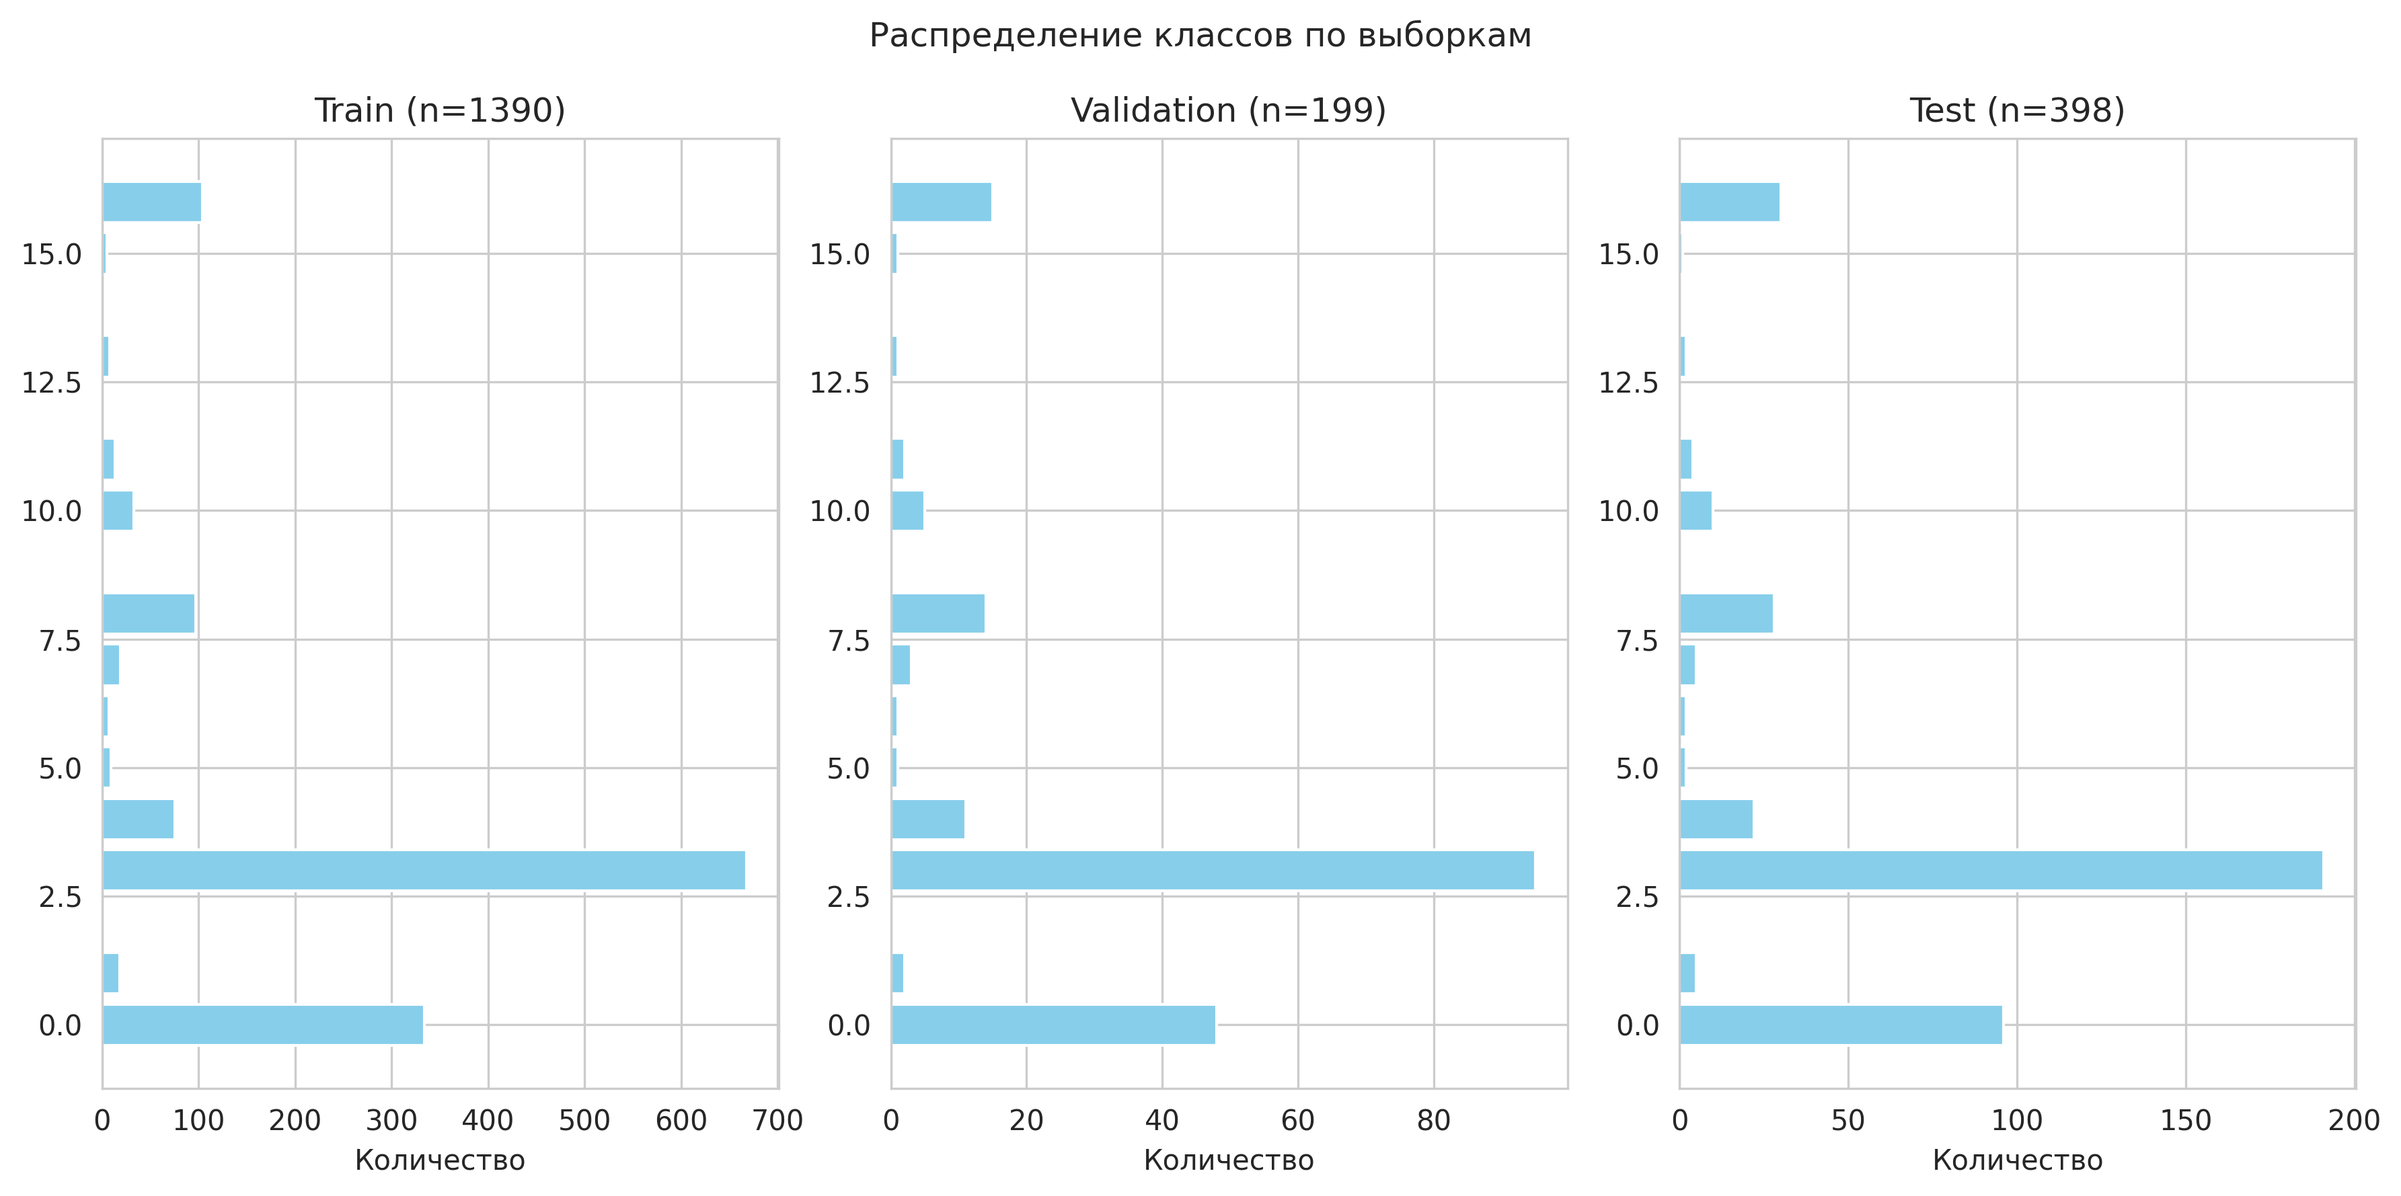
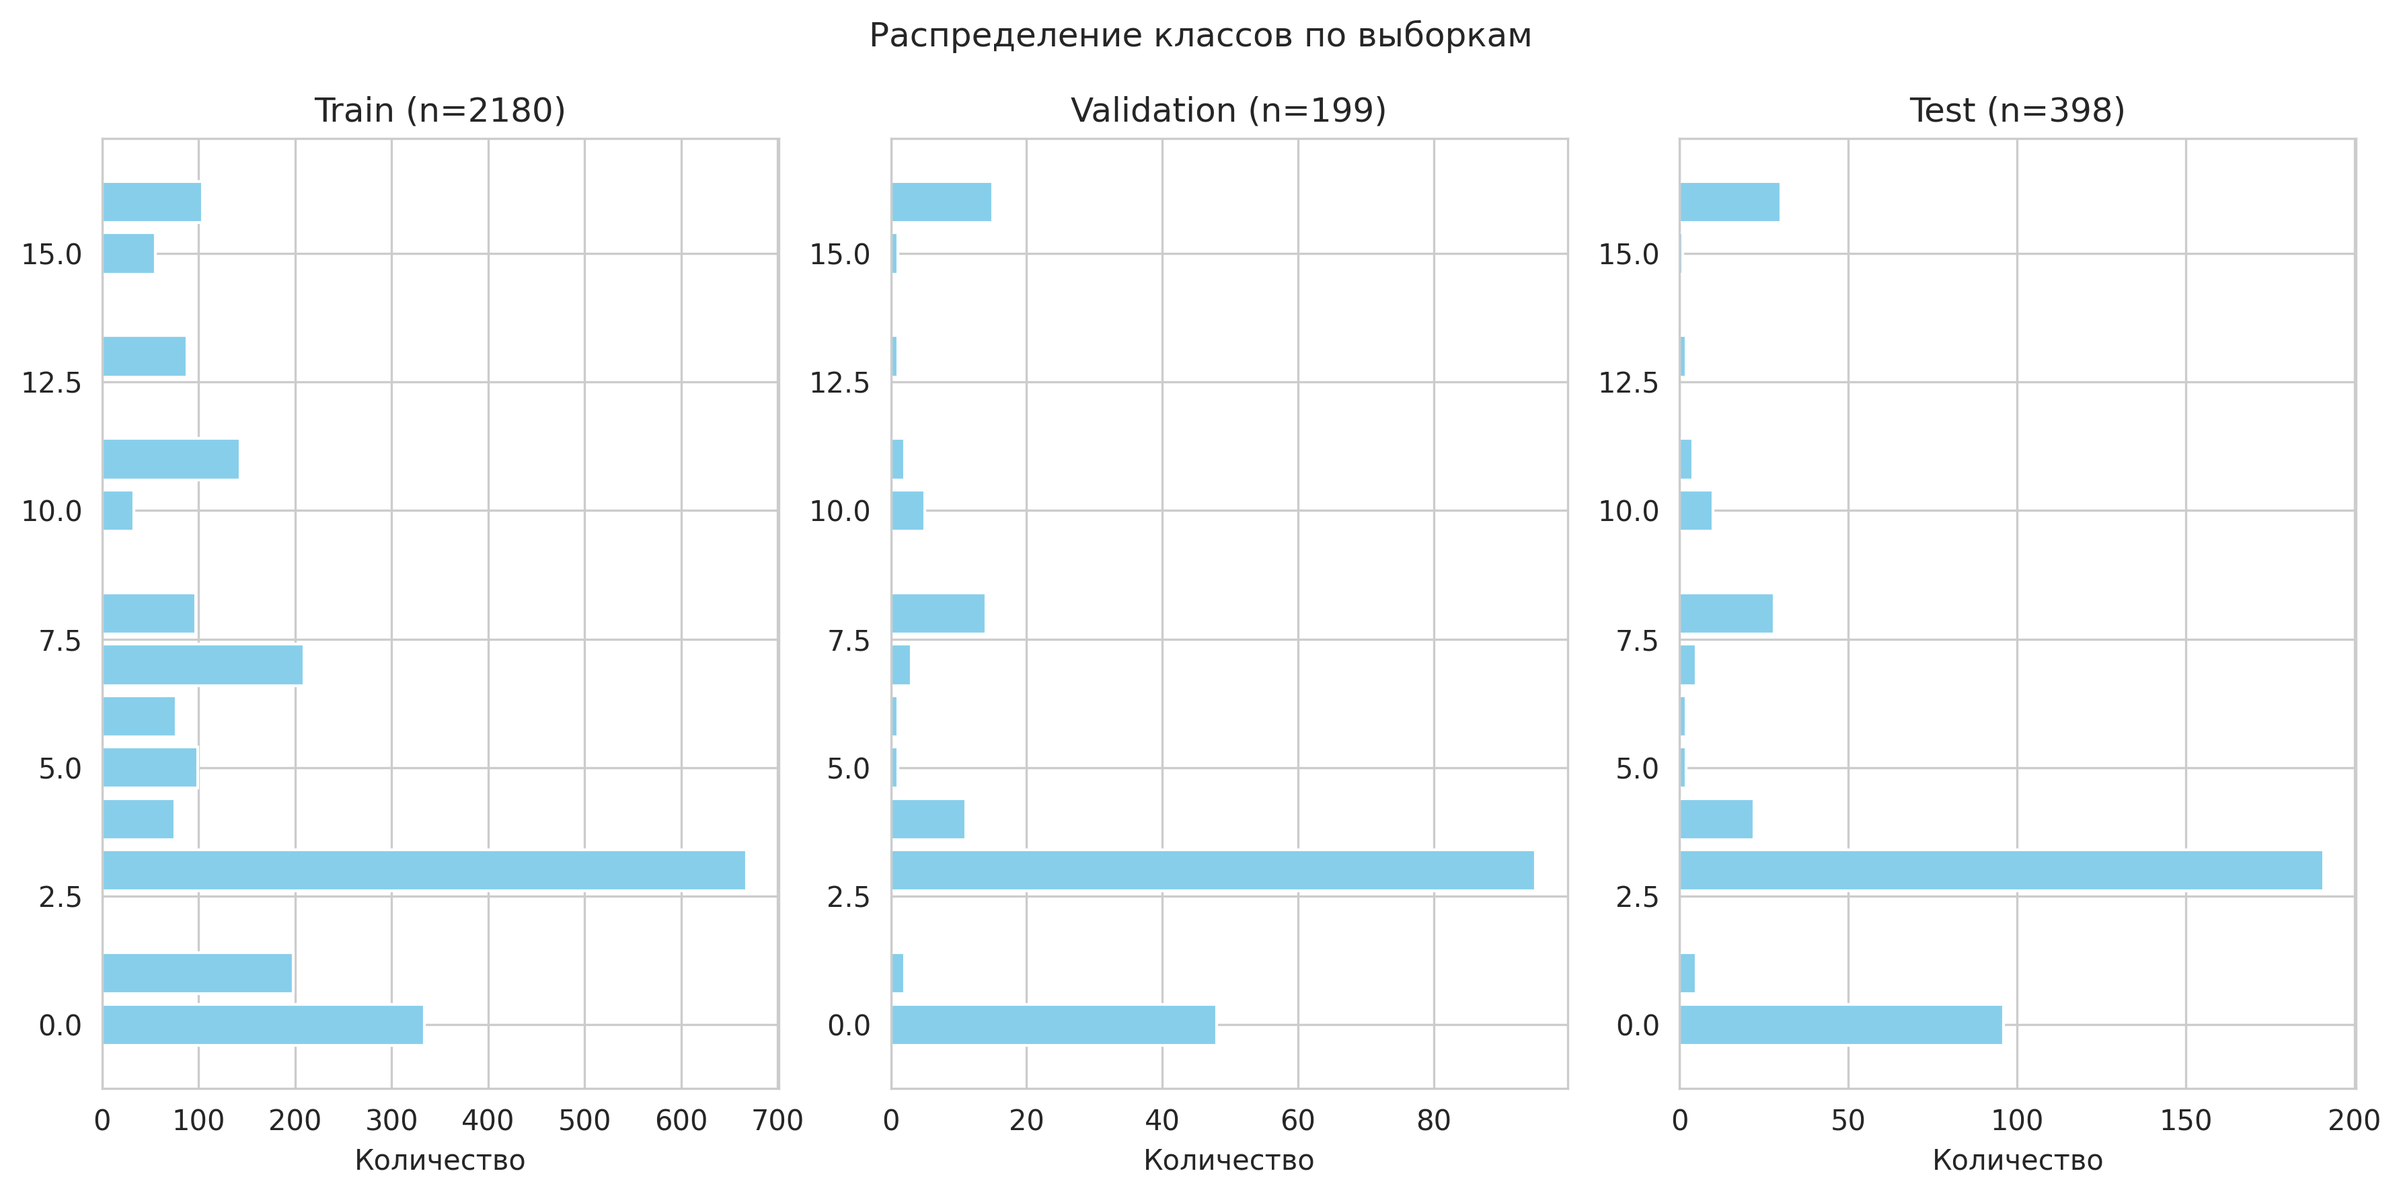
add ruroberta + test

diff --git a/src/models/models.py b/src/models/models.py
@@ -4,9 +4,11 @@ import joblib
 from abc import ABC, abstractmethod
 import numpy as np
 from catboost import CatBoostClassifier
+import torch
+import torch.nn.functional as F
+from transformers import Trainer
 
 from transformers import AutoModelForSequenceClassification, AutoTokenizer, Trainer, TrainingArguments
-import torch
 
 
 # Models
@@ -176,7 +178,7 @@ class RuBERTModel(BaseModel):
                 num_train_epochs=base_args.pop('num_train_epochs', 3),
                 **base_args
             )
-            self.trainer = Trainer(
+            self.trainer = FocalLossTrainer(
                 model=self.model,
                 args=training_args,
                 train_dataset=train_loader.dataset,
@@ -196,7 +198,7 @@ class RuBERTModel(BaseModel):
                 learning_rate=head_lr,
                 **base_args
             )
-            trainer1 = Trainer(
+            trainer1 = FocalLossTrainer(
                 model=self.model,
                 args=stage1_args,
                 train_dataset=train_loader.dataset,
@@ -218,7 +220,7 @@ class RuBERTModel(BaseModel):
                 learning_rate=unfreeze_lr,
                 **base_args
             )
-            trainer2 = Trainer(
+            trainer2 = FocalLossTrainer(
                 model=self.model,
                 args=stage2_args,
                 train_dataset=train_loader.dataset,
@@ -258,6 +260,156 @@ class RuBERTModel(BaseModel):
         model.is_fitted = True
         return model
 
+
+class RuRobertaModel(BaseModel):
+    def __init__(self, model_name='ai-forever/ruRoberta-large', num_labels=None, max_length=512, **kwargs):
+        if num_labels is None:
+            raise ValueError("RuRobertaModel требует явный num_labels (например, из cfg.data.num_labels).")
+        self.model_name = model_name
+        self.num_labels = num_labels
+        self.max_length = max_length
+        self.model = None
+        self.trainer = None
+        self.tokenizer = AutoTokenizer.from_pretrained(model_name)
+        self.is_fitted = False
+    
+    def train(
+        self,
+        train_loader,
+        val_loader,
+        fine_tune_mode='full',   # 'full' или 'gradual'
+        **kwargs
+    ):
+        """
+        Параметры для gradual режима (можно передавать в kwargs):
+            head_epochs: int = 3
+            head_lr: float = 5e-4
+            unfreeze_layers: int = 4   # сколько верхних слоёв энкодера разморозить
+            unfreeze_epochs: int = 3
+            unfreeze_lr: float = 2e-5
+        Остальные kwargs напрямую передаются в TrainingArguments.
+        """
+        # --- извлекаем специфичные для gradual параметры ---
+        head_epochs = kwargs.pop('head_epochs', 3)
+        head_lr = kwargs.pop('head_lr', 5e-4)
+        unfreeze_layers = kwargs.pop('unfreeze_layers', 4)
+        unfreeze_epochs = kwargs.pop('unfreeze_epochs', 3)
+        unfreeze_lr = kwargs.pop('unfreeze_lr', 2e-5)
+        # callbacks не является полем TrainingArguments, поэтому вынимаем его отдельно
+        callbacks = kwargs.pop('callbacks', None)
+
+        # --- базовые настройки TrainingArguments ---
+        base_args = dict(
+            output_dir='./bert_results',
+            per_device_train_batch_size=32,
+            per_device_eval_batch_size=32,
+            eval_strategy='epoch',
+            save_strategy='epoch',
+            save_total_limit=1,  # иначе Trainer копит чекпоинт (~2ГБ) на КАЖДОЙ эпохе навсегда
+            logging_dir='./logs',
+            load_best_model_at_end=True,
+            metric_for_best_model='f1_macro',
+        )
+        # Обновляем тем, что передал пользователь (может переопределить)
+        base_args.update(kwargs)
+
+        # --- метрика ---
+        def compute_metrics(eval_pred):
+            predictions, labels = eval_pred
+            predictions = np.argmax(predictions, axis=1)
+            return {'f1_macro': f1_score(labels, predictions, average='macro')}
+
+        # --- загружаем модель ---
+        self.model = AutoModelForSequenceClassification.from_pretrained(
+            self.model_name,
+            num_labels=self.num_labels
+        )
+
+        if fine_tune_mode == 'full':
+            # Классическое дообучение всей модели
+            training_args = TrainingArguments(
+                num_train_epochs=base_args.pop('num_train_epochs', 3),
+                **base_args
+            )
+            self.trainer = FocalLossTrainer(
+                model=self.model,
+                args=training_args,
+                train_dataset=train_loader.dataset,
+                eval_dataset=val_loader.dataset,
+                compute_metrics=compute_metrics,
+                callbacks=callbacks,
+            )
+            self.trainer.train()
+
+        elif fine_tune_mode == 'gradual':
+            # ЭТАП 1: замораживаем всю основу, учим только классификатор
+            for param in self.model.bert.parameters():
+                param.requires_grad = False
+
+            stage1_args = TrainingArguments(
+                num_train_epochs=head_epochs,
+                learning_rate=head_lr,
+                **base_args
+            )
+            trainer1 = FocalLossTrainer(
+                model=self.model,
+                args=stage1_args,
+                train_dataset=train_loader.dataset,
+                eval_dataset=val_loader.dataset,
+                compute_metrics=compute_metrics,
+                callbacks=callbacks,
+            )
+            trainer1.train()
+
+            # ЭТАП 2: размораживаем последние unfreeze_layers слоёв энкодера
+            # В rubert слои лежат в model.bert.encoder.layer (список)
+            layers = self.model.bert.encoder.layer
+            for layer in layers[-unfreeze_layers:]:
+                for param in layer.parameters():
+                    param.requires_grad = True
+
+            stage2_args = TrainingArguments(
+                num_train_epochs=unfreeze_epochs,
+                learning_rate=unfreeze_lr,
+                **base_args
+            )
+            trainer2 = FocalLossTrainer(
+                model=self.model,
+                args=stage2_args,
+                train_dataset=train_loader.dataset,
+                eval_dataset=val_loader.dataset,
+                compute_metrics=compute_metrics,
+                callbacks=callbacks,
+            )
+            trainer2.train()
+            self.trainer = trainer2   # сохраняем последний Trainer
+        else:
+            raise ValueError("fine_tune_mode должен быть 'full' или 'gradual'")
+
+
+    def predict(self, dataloader):
+        predictions = self.trainer.predict(dataloader.dataset)
+        return np.argmax(predictions.predictions, axis=1)
+
+    def predict_proba(self, dataloader):
+        predictions = self.trainer.predict(dataloader.dataset)
+        probs = np.exp(predictions.predictions) / np.sum(
+            np.exp(predictions.predictions), axis=1, keepdims=True
+        )
+        return probs
+
+    def save(self, path: str):
+        self.trainer.save_model(path)
+        # токенизатор тоже можно сохранить
+        self.tokenizer.save_pretrained(path)
+
+    @classmethod
+    def load(cls, path: str):
+        model = cls()
+        model.model = AutoModelForSequenceClassification.from_pretrained(path)
+        model.tokenizer = AutoTokenizer.from_pretrained(path)
+        model.is_fitted = True
+        return model
 
 
 class EnsembleModel(BaseModel):
@@ -299,6 +451,29 @@ class EnsembleModel(BaseModel):
     def load(cls, path: str):
         pass
 
+
+class FocalLossTrainer(Trainer):
+    def __init__(self, *args, gamma: float = 2.0, alpha: torch.Tensor | None = None, **kwargs):
+        super().__init__(*args, **kwargs)
+        self.gamma = gamma
+        self.alpha = alpha  # опционально: тензор весов по классам, как class_weight
+
+    def compute_loss(self, model, inputs, return_outputs=False, **kwargs):
+        labels = inputs.pop("labels")
+        outputs = model(**inputs)
+        logits = outputs.logits
+
+        log_probs = F.log_softmax(logits, dim=-1)
+        log_pt = log_probs.gather(1, labels.unsqueeze(1)).squeeze(1)
+        pt = log_pt.exp()
+
+        loss = -((1 - pt) ** self.gamma) * log_pt
+        if self.alpha is not None:
+            loss = loss * self.alpha.to(logits.device)[labels]
+
+        loss = loss.mean()
+        return (loss, outputs) if return_outputs else loss
+
 # Factory
 
 MODEL_REGISTRY = {
@@ -306,6 +481,7 @@ MODEL_REGISTRY = {
     'catboost': CatBoostModel,
     'rubert': RuBERTModel,
     'ensemble': EnsembleModel,
+    'ruroberta': RuRobertaModel
 }
 
 def build_model(kind: str, **kwargs):

diff --git a/src/models/main.py b/src/models/main.py
@@ -16,6 +16,7 @@ from src.callbacks import FileLoggingCallback
 from src.mlflow_utils import init_mlflow, flatten_config_params, log_model_artifact
 from src.data.preprocessor import timed_preprocess
 from src.data.load import load_dataset
+from src.data.augment import augment_minority_classes
 from src.models.dataloader import TextDataManager
 from src.models.models import build_model
 from src.visualization.visualizer import Visualizer, log_run
@@ -48,8 +49,10 @@ dm = TextDataManager(
     val_size=cfg.data.val_size,
     random_state=cfg.data.random_state,
 )
+# 2.1 этап - агументация 
+dm.X_train_str, dm.y_train = augment_minority_classes(dm.X_train_str, dm.y_train, min_count=30, n_aug=10)
 
-if cfg.model.kind == 'rubert':
+if cfg.model.kind in ['rubert', 'ruroberta']:
     train_loader, val_loader, test_loader, tokenizer = dm.get_bert_dataloaders()
 elif cfg.model.kind == 'catboost':
     X_train_tf, X_val_tf, X_test_tf = dm.get_catboost_data()
@@ -66,7 +69,7 @@ else:
 # поэтому маппим явно; num_labels берём из данных, а не из конфига (см. предыдущий разбор).
 # Для log_reg/catboost остаётся выкинуть служебные поля (kind — дискриминатор,
 # ngram_range/max_features — уже ушли в векторайзер выше) и передать остальное как есть.
-if cfg.model.kind == 'rubert':
+if cfg.model.kind in ['rubert', 'ruroberta']:
     # num_labels — это максимальное значение метки + 1, а не количество оставшихся
     # после фильтра классов: min_class_count вырезает редкие Категория из середины
     # диапазона (напр. классы 2/9/12/14), но их числовые значения остаются в данных
@@ -101,7 +104,7 @@ with mlflow_ctx:
     run_start = time.perf_counter()
     #logger.info("Обучение начато: model=%s fine_tune_mode=%s", cfg.model.kind, cfg.model.fine_tune_mode)
 
-    if cfg.model.kind == 'rubert':
+    if cfg.model.kind in ['rubert', 'ruroberta']:
         # Имена полей схемы не везде совпадают с именами TrainingArguments
         # (batch_size -> per_device_*_batch_size), поэтому маппим явно, а не splat'им cfg.model.
         train_kwargs = dict(
@@ -128,7 +131,7 @@ with mlflow_ctx:
     viz = Visualizer(output_dir="data/visualizations", model_name=cfg.model.kind, dpi=300, top_k=10)
 
     # Предсказания
-    if cfg.model.kind == 'rubert':
+    if cfg.model.kind in ['rubert', 'ruroberta']:
         y_val_pred = model_fit.predict(val_loader)
         y_test_pred = model_fit.predict(test_loader)
         y_val_proba = model_fit.predict_proba(val_loader)

diff --git a/src/data/augment.py b/src/data/augment.py
@@ -1,0 +1,39 @@
+import random
+import pandas as pd
+
+
+def eda_augment(text: str, alpha: float = 0.1) -> str:
+    """Случайно выкидывает и переставляет местами часть слов — простая EDA-аугментация."""
+    words = text.split()
+    if len(words) < 4:
+        return text
+    n_swaps = max(1, int(len(words) * alpha))
+
+    kept = [w for w in words if random.random() > alpha]
+    words = kept if kept else words
+
+    words = words.copy()
+    for _ in range(n_swaps):
+        i, j = random.randrange(len(words)), random.randrange(len(words))
+        words[i], words[j] = words[j], words[i]
+
+    return " ".join(words)
+
+
+def augment_minority_classes(
+    texts: pd.Series, labels: pd.Series, min_count: int = 30, n_aug: int = 2
+) -> tuple[pd.Series, pd.Series]:
+    """Для классов с < min_count примеров добавляет по n_aug аугментированных копий каждого."""
+    counts = labels.value_counts()
+    minority = set(counts[counts < min_count].index)
+
+    aug_texts, aug_labels = [], []
+    for text, label in zip(texts, labels):
+        if label in minority:
+            for _ in range(n_aug):
+                aug_texts.append(eda_augment(text))
+                aug_labels.append(label)
+
+    texts_out = pd.concat([texts, pd.Series(aug_texts)], ignore_index=True)
+    labels_out = pd.concat([labels, pd.Series(aug_labels)], ignore_index=True)
+    return texts_out, labels_out

diff --git a/src/config/schema.py b/src/config/schema.py
@@ -90,6 +90,24 @@ class RubertCfg(BaseModelCfg):
             raise ValueError("fine_tune_mode='gradual' требует unfreeze_schedule")
         return self
 
+class RurobertaCfg(BaseModelCfg):
+    kind: Literal["ruroberta"]
+    checkpoint: str = "ai-forever/ruRoberta-large"
+    fine_tune_mode: Literal["full", "gradual"] = "full"
+    learning_rate: float = Field(2e-5, gt=0)
+    num_train_epochs: int = Field(3, ge=1)
+    batch_size: int = Field(16, ge=1)
+    max_length: int = Field(512, ge=8, le=512)
+    warmup_ratio: float = Field(0.1, ge=0, le=1)
+    unfreeze_schedule: list[int] | None = None
+
+    @model_validator(mode="after")
+    def _gradual_needs_schedule(self):
+        if self.fine_tune_mode == "gradual" and not self.unfreeze_schedule:
+            raise ValueError("fine_tune_mode='gradual' требует unfreeze_schedule")
+        return self
+
+
 class TrackingCfg(StrictModel):
     enabled: bool = True
     backend: Literal["mlflow", "noop"] = "mlflow"
@@ -102,7 +120,7 @@ class TrackingCfg(StrictModel):
         return v.strip().replace(" ", "-")   # валидаторы могут не только проверять, но и нормализовать
 
 ModelCfg = Annotated[
-    Union[LogRegCfg, CatBoostCfg, RubertCfg],
+    Union[LogRegCfg, CatBoostCfg, RubertCfg, RurobertaCfg],
     Field(discriminator="kind"),
 ]
 

diff --git a/src/data/preprocessor.py b/src/data/preprocessor.py
@@ -115,7 +115,7 @@ def timed_preprocess(series, model_name):
         result = series.apply(clean_text_classic)
     elif model_name == 'catboost':
         result = series.apply(clean_text_for_catboost)
-    elif model_name == 'rubert':
+    elif model_name in ['rubert', 'ruroberta']:
         result = series.apply(clean_text_for_rubert)
     else:
         result = series.apply(clean_text_classic)
